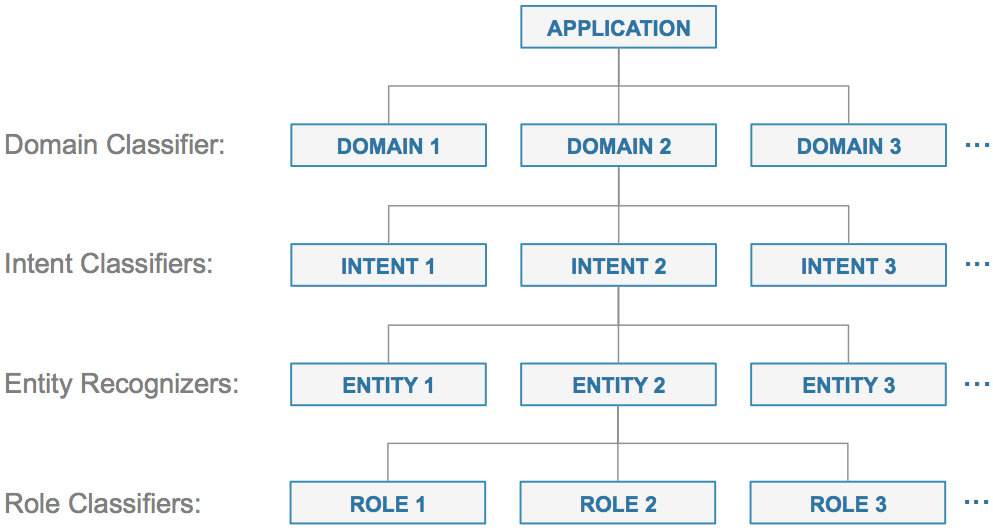
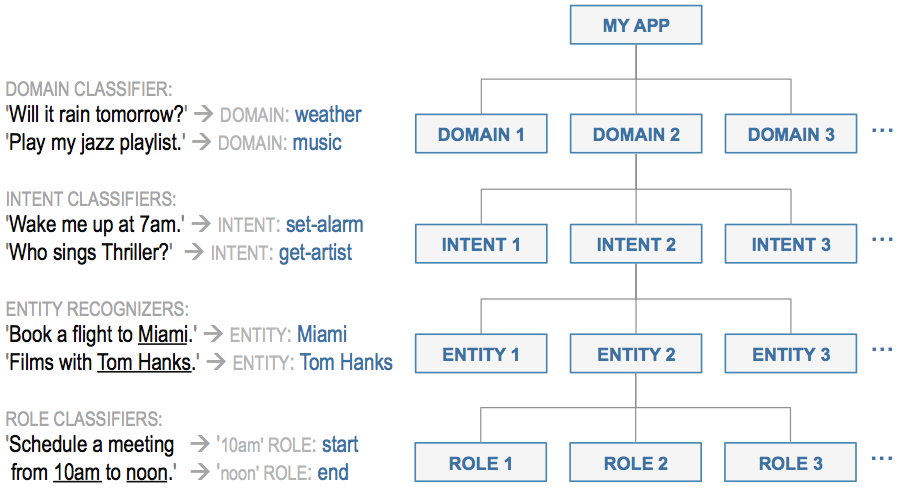
more quickstart additions

diff --git a/docs/source/quickstart.rst b/docs/source/quickstart.rst
@@ -60,30 +60,21 @@ For our simple use case, the following diagram illustrates the dialogue interact
 Define the Domain, Intent, Entity and Role Hierarchy
 -------------------------------------------------------
 
-Conversational applications rely on a hierarchy of machine learning classifiers in order to model and understand natural language. Often called the Natural Language Processor, this family of machine learning models sits at the core all conversational assistants in widespread production use today. While there are many different ways that machine learning techniques can be enlisted to disect and understand human language, a set of best practices has been adopted in recent years to systematize the sometimes challenging task of building accurate and useful natural language processing systems.  
-
-Today, nearly all commercial conversational applications rely on a hierarchy of machine learning models illustrated below.
+Conversational applications rely on a hierarchy of machine learning classifiers in order to model and understand natural language. Often called the Natural Language Processor, this family of machine learning models sits at the core all conversational assistants in widespread production use today. While there are many different ways that machine learning techniques can be enlisted to dissect and understand human language, a set of best practices has been adopted in recent years to systematize the sometimes challenging task of building accurate and useful natural language processing systems. Today, nearly all commercial conversational applications rely on a hierarchy of machine learning models illustrated below.
 
 .. image:: images/hierarchy.png
-    :width: 600px
+    :width: 700px
     :align: center
 
-The topmost layer in the model hierarchy is the domain classifier. The domain classifier is responsible for performing a first-pass classification to group incoming queries into set of pre-defined buckets or 'domains'. For any given domain, there may be one or more pre-defined intents. Each intent defines a specific action or answer type to invoke for a given request. The intent classifier models are responsible for deciding which intent is most likely associated with a given request. Once the request is categorized into a specific intent, the entity recognition models are employed to discern the important words and phrases in each query that must be identified in order to understand and fulfill the request. These identified words and phrases are called 'entities', and each intent may have zero or more types of entities which must be recognized. For some types of entities, a fourth and final classification step, called role classification, may be required. The role classifiers are responsible for adding differentiating labels to entities of the same type. 
-
-Refer to section 3 for a more in-depth treatment of the natural language processing classifier hierarchy utilized by MindMeld Workbench. 
+The topmost layer in the model hierarchy is the domain classifier. The domain classifier is responsible for performing a first-pass classification to group incoming queries into set of pre-defined buckets or 'domains'. For any given domain, there may be one or more pre-defined intents. Each intent defines a specific action or answer type to invoke for a given request. The intent classifier models are responsible for deciding which intent is most likely associated with a given request. Once the request is categorized into a specific intent, the entity recognition models are employed to discern the important words and phrases in each query that must be identified in order to understand and fulfill the request. These identified words and phrases are called 'entities', and each intent may have zero or more types of entities which must be recognized. For some types of entities, a fourth and final classification step, called role classification, may be required. The role classifiers are responsible for adding differentiating labels to entities of the same type. Refer to the User Guide for a more in-depth treatment of the natural language processing classifier hierarchy utilized by MindMeld Workbench. 
 
 
-In the past few years, some standard approaches have been adopted 
-
-
-Today's commercial conversational applications rely on 
-
-Show and describe a simple diagram which illustrates the domain, intent, entity and role hierarchy.  Show the directory structure which captures this hierarchy for a simple example.
+Show the directory structure which captures this hierarchy for a simple example.
 
 Developer creates a directory structure that implicitly defines the domain, intent and entity hierarchy.
 
-Intent names are always verbs which describe what the user is trying to accomplish.
-Entity names are always nouns which describe the entity type.
+Mention the concept of 'blueprints' (aka reference applications).
+
 
 For example,
 
@@ -95,6 +86,10 @@ For example,
    - ``get_nearest_store`` Returns the closest store to the user.
    - ``get_is_open_now`` Returns yes or no if the requested store is open now.
    - ``exit`` Ends the current interaction.
+
+.. note::
+
+  By convention, intent names should always be verbs which describe what the user is trying accomplish.
 
 
 Directory structure::
@@ -122,6 +117,11 @@ Entities:
  - When does the store on ``Elm Street | NAME`` close ``today | DATE``?
  - When does that store open ``tomorrow | DATE``?
  - Is the ``Central Plaza Kwik-E-Mart | NAME`` open now?
+
+.. note::
+
+  By convention, entity names should always be nouns which describe the entity type.
+
 
 
 Define the dialog state handlers
